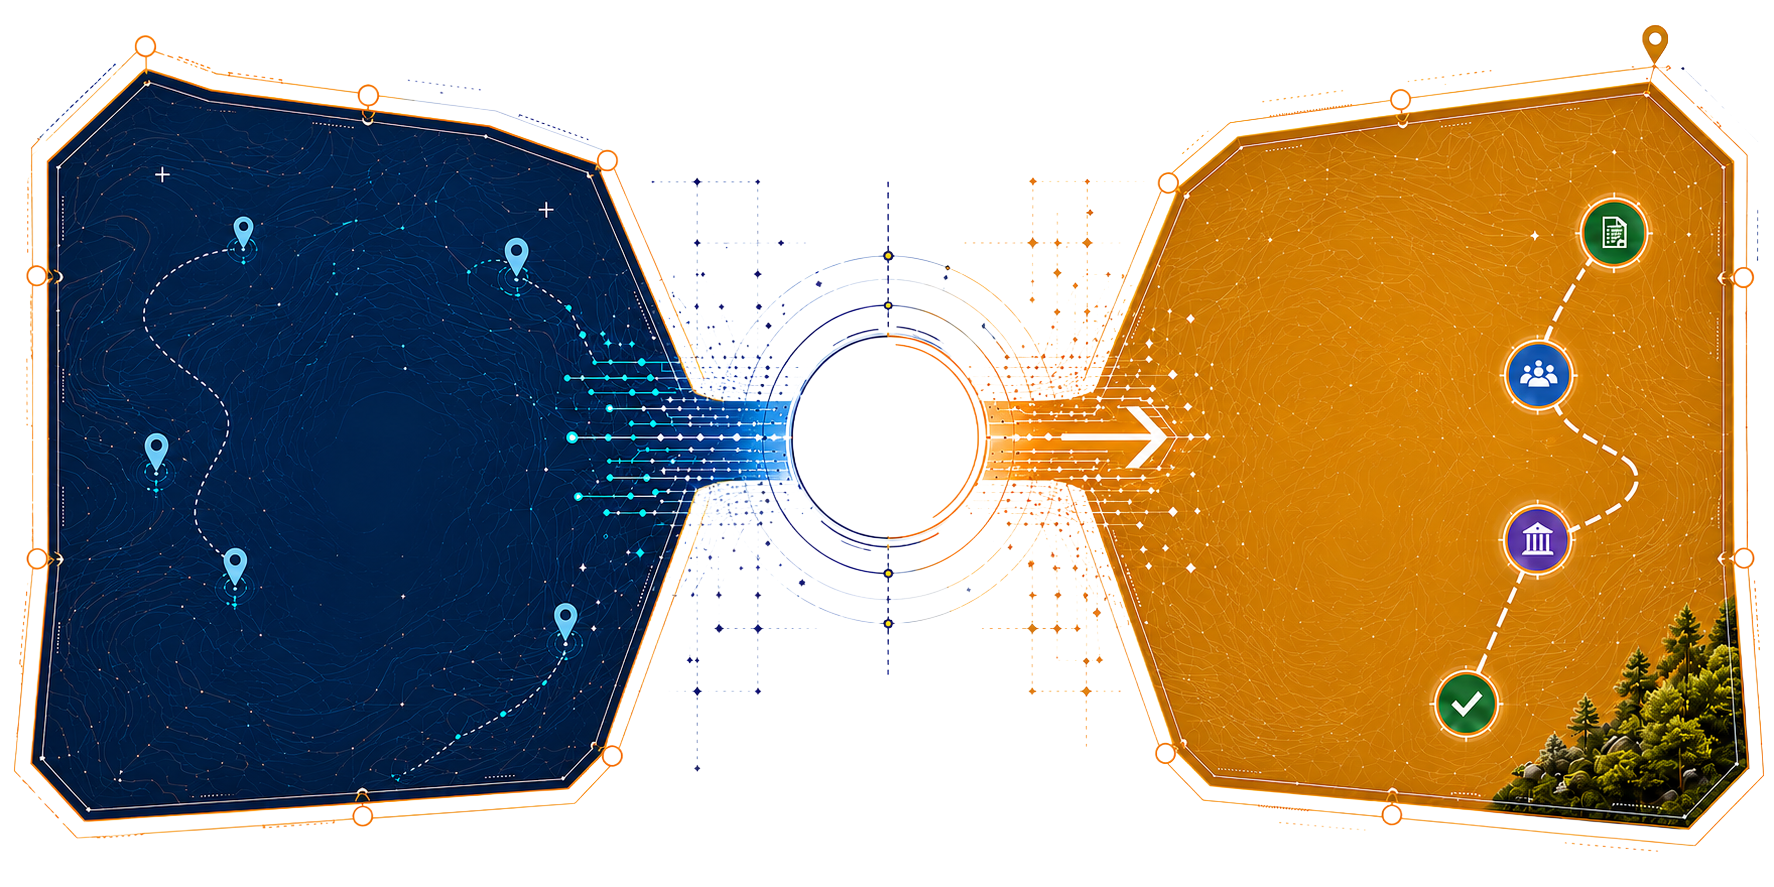
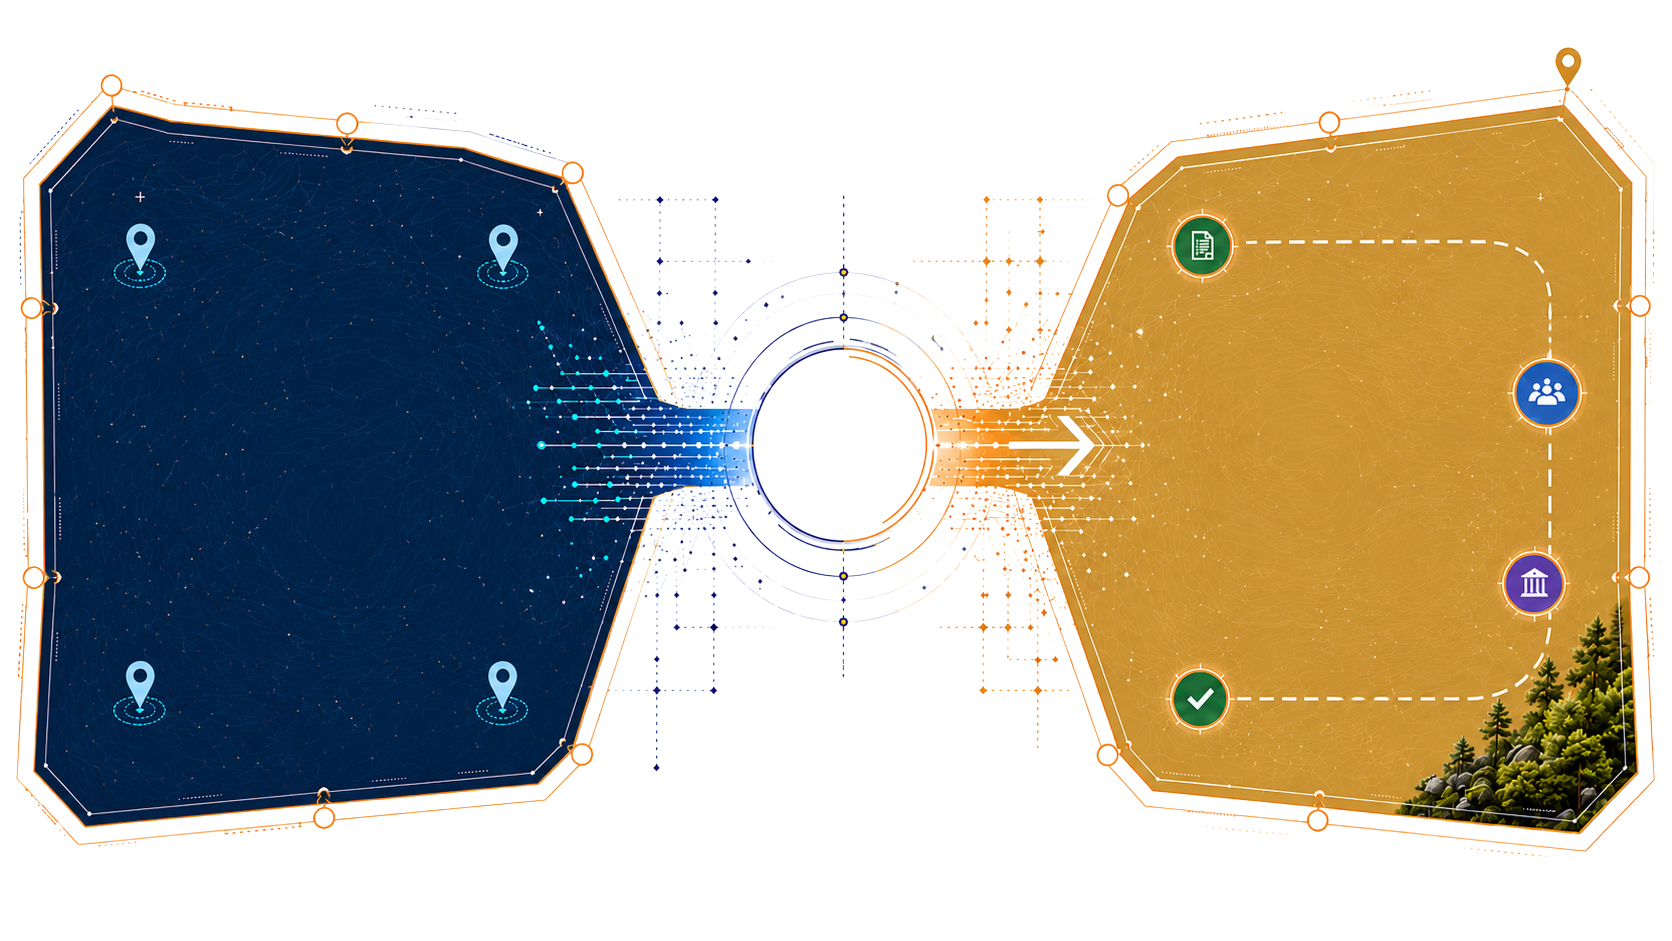
refactoring AboutUs page

diff --git a/src/app/about/page.tsx b/src/app/about/page.tsx
@@ -44,9 +44,9 @@ export default function AboutUsPage() {
   };
 
   const itemVariants = {
-    hidden: { 
-      opacity: 0, 
-      x: -30, 
+    hidden: {
+      opacity: 0,
+      x: -30,
       filter: 'blur(8px)',
       scale: 0.98,
     },
@@ -132,14 +132,14 @@ export default function AboutUsPage() {
       >
         <section className="relative w-full py-16 md:py-24 bg-transparent overflow-hidden">
           <div className="max-w-[95rem] mx-auto px-6 md:px-12 lg:px-16 w-full relative z-10">
-            
+
             {/* Introductory Text Structure matching design sheet */}
             <div className="text-center max-w-5xl mx-auto mb-16 space-y-8 relative z-10 px-4">
               <p className="text-brand-navy/70 text-lg md:text-xl font-normal leading-relaxed">
-                We know what you're dealing with. The right land is hard to find. Approvals take longer than they should. 
+                We know what you're dealing with. The right land is hard to find. Approvals take longer than they should.
                 And somewhere in the middle of all of it, you're left managing a process that was never designed to be easy.
               </p>
-              
+
               <div className="flex flex-col items-center gap-4">
                 <h3 className="text-2xl md:text-3xl font-poppins font-bold text-brand-navy max-w-4xl leading-tight">
                   We built Conservve Infra Solutions to change that experience for you.
@@ -148,9 +148,9 @@ export default function AboutUsPage() {
               </div>
 
               <p className="text-brand-navy/70 text-base md:text-lg font-normal leading-relaxed max-w-4xl mx-auto">
-                Based in Mumbai, we specialise in land acquisition and statutory approvals for businesses and developers 
-                who are done with delays and ready to move. We come in, take ownership of the complexity, and walk 
-                every stage alongside you with complete transparency, full compliance, and a commitment to 
+                Based in Mumbai, we specialise in land acquisition and statutory approvals for businesses and developers
+                who are done with delays and ready to move. We come in, take ownership of the complexity, and walk
+                every stage alongside you with complete transparency, full compliance, and a commitment to
                 getting you where you need to be, faster.
               </p>
 
@@ -158,7 +158,7 @@ export default function AboutUsPage() {
                 <h4 className="text-xl md:text-2xl font-poppins font-bold text-brand-navy">
                   Your project deserves that. And so do you.
                 </h4>
-                
+
                 {/* Gold blueprint symbol divider line */}
                 <div className="flex items-center gap-4 w-full justify-center opacity-70">
                   <div className="w-24 h-[1px] bg-brand-gold/60" />
@@ -174,18 +174,17 @@ export default function AboutUsPage() {
               </div>
             </div>
 
-            {/* ─── DESKTOP COMPOSITE INFOGRAPHIC: single mv_bg.png with text overlaid ─── */}
             {/*
-              mv_bg.png natural proportions ≈ 1540 × 740px → ratio 2.08:1
-              We render it at w-full within max-w-[1400px], height set by aspect ratio.
-              Text zones (as % of image width):
-                VISION  : left 2%  → left 38%  (left polygon body)
-                MISSION : left 62% → right 2%  (right polygon body)
-                Centre  : left 38% → left 62%  (graphical only, no text)
+              ─── DESKTOP INFOGRAPHIC: mv_bg.png (1540×740) full-unit image ───
+              Text zone analysis (% of image width):
+                Left polygon body:  x = 4%  → 30%   (28% wide)
+                Connector throat:   x = 30% → 63%   (graphical only)
+                Right polygon body: x = 63% → 90%   (27% wide)
+                Mission nodes:      x = 88% → 100%  (icons, no text)
             */}
             <motion.div
-              className="w-full max-w-[1400px] mx-auto hidden lg:block relative select-none z-20"
-              style={{ aspectRatio: '1540 / 740' }}
+              className="w-full max-w-[1660px] mx-auto hidden lg:block relative select-none z-20"
+              style={{ aspectRatio: '1540 / 840' }}
               initial={{ opacity: 0, y: 30 }}
               animate={{ opacity: 1, y: 0 }}
               transition={{ duration: 1.2, ease: "easeOut" }}
@@ -195,46 +194,73 @@ export default function AboutUsPage() {
                 <Image
                   src="/about_us/mv_bg.png"
                   fill
-                  sizes="(min-width: 1024px) 1400px, 100vw"
+                  sizes="(min-width: 1024px) 1660px, 100vw"
                   priority
                   className="object-fill"
                   alt="Vision Mission Infographic"
                 />
               </div>
 
-              {/* ── VISION: Eye icon — upper-centre of left polygon (yellow circle position) ── */}
-              <div className="absolute z-10" style={{ left: '22%', top: '24%', transform: 'translate(-50%, -50%)' }}>
-                <div className="w-14 h-14 rounded-full border border-brand-gold/70 flex items-center justify-center bg-brand-navy/50 backdrop-blur-sm shadow-inner relative">
-                  <div className="absolute inset-0.5 rounded-full border border-dashed border-brand-gold/35" />
-                  <Eye className="w-7 h-7 text-brand-gold" />
+              {/* ── VISION: icon + heading + text — left polygon body ── */}
+              <div
+                className="absolute z-10 flex flex-col items-start text-left"
+                style={{ left: '9%', top: '30%', width: '23%' }}
+              >
+                {/* Vision Icon — decorative eye centered above left-aligned title */}
+                <div className="relative mb-5 shrink-0 self-start">
+                  {/* Outer pulse ring */}
+                  <span className="absolute inset-0 rounded-full border-2 border-brand-gold/25 scale-[1.4] animate-pulse" />
+                  {/* Middle ring */}
+                  <span className="absolute inset-0 rounded-full border border-brand-gold/40 scale-[1.18]" />
+                  {/* Main icon circle */}
+                  <div className="relative w-14 h-14 rounded-full border-2 border-brand-gold bg-brand-navy/70 backdrop-blur-sm flex items-center justify-center shadow-[0_0_18px_rgba(191,160,82,0.35)]">
+                    {/* Inner decorative ring */}
+                    <span className="absolute inset-[3px] rounded-full border border-brand-gold/40" />
+                    <Eye className="w-7 h-7 text-brand-gold" strokeWidth={1.5} />
+                  </div>
                 </div>
-              </div>
 
-              {/* ── VISION: Heading + text — centre-right of left polygon body (yellow rectangle position) ── */}
-              <div className="absolute z-10 text-left" style={{ left: '5%', top: '42%', right: '60%' }}>
-                <h3 className="text-4xl xl:text-5xl font-poppins font-black tracking-widest text-white leading-none drop-shadow-lg">
+                {/* VISION heading — brand gold */}
+                <h3 className="text-3xl xl:text-4xl font-poppins font-black tracking-widest text-brand-gold leading-none drop-shadow-lg">
                   VISION
                 </h3>
-                <div className="w-14 h-[3px] bg-brand-gold mt-3 mb-4 rounded-full" />
-                <p className="text-white/85 text-[15px] font-normal leading-relaxed drop-shadow">
+                {/* Gold underline accent */}
+                <div className="w-10 h-[3px] bg-brand-gold mt-2 mb-4 rounded-full opacity-90" />
+                {/* Description paragraph */}
+                <p className="text-white/90 text-[15px] xl:text-[16px] font-normal leading-[1.65] drop-shadow">
                   To be a trusted leader in land acquisition and regulatory solutions, known for delivering certainty,
                   transparency, and long-term value across every project.
                 </p>
               </div>
 
-              {/* ── MISSION text overlay: right polygon zone (right 2% → 62%) ── */}
-              <div className="absolute inset-y-0 flex flex-col justify-center text-left z-10"
-                style={{ left: '63%', right: '3%' }}>
-                {/* Target icon */}
-                <div className="w-14 h-14 rounded-full border border-white/60 flex items-center justify-center mb-4 bg-white/10 backdrop-blur-sm shadow-inner relative shrink-0">
-                  <div className="absolute inset-0.5 rounded-full border border-dashed border-white/25" />
-                  <Target className="w-7 h-7 text-white" />
+              {/* ── MISSION: icon + heading + text — right polygon body ── */}
+              {/* Changed to items-end and text-right to prevent overlap with the center throat/arrow */}
+              <div
+                className="absolute z-10 flex flex-col items-end text-right"
+                style={{ right: '12%', top: '30%', width: '25%' }}
+              >
+                {/* Mission Icon — decorative target centered above right-aligned title */}
+                <div className="relative mb-5 shrink-0 self-end">
+                  {/* Outer pulse ring */}
+                  <span className="absolute inset-0 rounded-full border-2 border-brand-navy/30 scale-[1.4] animate-pulse" />
+                  {/* Middle ring */}
+                  <span className="absolute inset-0 rounded-full border border-brand-navy/50 scale-[1.18]" />
+                  {/* Main icon circle */}
+                  <div className="relative w-14 h-14 rounded-full border-2 border-brand-navy bg-white/25 backdrop-blur-sm flex items-center justify-center shadow-[0_0_18px_rgba(4,22,42,0.4)]">
+                    {/* Inner decorative ring */}
+                    <span className="absolute inset-[3px] rounded-full border border-brand-navy/50" />
+                    <Target className="w-7 h-7 text-brand-navy" strokeWidth={1.5} />
+                  </div>
                 </div>
-                <h3 className="text-4xl xl:text-5xl font-poppins font-black tracking-widest text-white leading-none drop-shadow-lg">
+
+                {/* MISSION heading — brand navy */}
+                <h3 className="text-3xl xl:text-4xl font-poppins font-black tracking-widest text-brand-navy leading-none drop-shadow-lg">
                   MISSION
                 </h3>
-                <div className="w-14 h-[3px] bg-white mt-3 mb-4 rounded-full" />
-                <p className="text-white/90 text-[15px] font-normal leading-relaxed max-w-[300px] drop-shadow">
+                {/* Navy underline accent */}
+                <div className="w-10 h-[3px] bg-brand-navy mt-2 mb-4 rounded-full opacity-90" />
+                {/* Description paragraph */}
+                <p className="text-white/90 text-[15px] xl:text-[16px] font-normal leading-[1.65] drop-shadow">
                   To simplify land acquisition and approval processes through deep expertise, strong institutional
                   networks, and efficient execution, empowering clients to move forward with confidence.
                 </p>
@@ -244,7 +270,7 @@ export default function AboutUsPage() {
 
             {/* ─── MOBILE & TABLET LAYOUT: RESPONSIVE STACKED BLOCKS ─── */}
             <div className="w-full flex flex-col items-center justify-center gap-8 mt-8 relative z-20 select-none lg:hidden">
-              
+
               {/* MOBILE: VISION PANEL */}
               <div className="relative w-full max-w-[500px] aspect-[520/400] flex-shrink-0 group">
                 {/* SVG Background Layer */}
@@ -312,14 +338,14 @@ export default function AboutUsPage() {
                     <div className="absolute inset-0.5 rounded-full border border-dashed border-brand-gold/30" />
                     <Eye className="w-7 h-7 text-brand-gold" />
                   </div>
-                  
+
                   {/* Vision Header */}
                   <h3 className="text-3xl font-poppins font-black tracking-widest text-white leading-none">VISION</h3>
                   <div className="w-12 h-[3px] bg-brand-gold mt-3 mb-4" />
-                  
+
                   {/* Description */}
                   <p className="text-white/80 text-sm sm:text-[14.5px] font-normal leading-relaxed max-w-[285px]">
-                    To be a trusted leader in land acquisition and regulatory solutions, known for delivering certainty, 
+                    To be a trusted leader in land acquisition and regulatory solutions, known for delivering certainty,
                     transparency, and long-term value across every project.
                   </p>
                 </div>
@@ -327,7 +353,7 @@ export default function AboutUsPage() {
 
               {/* MOBILE: TRANSMITTER NEXUS HUB */}
               <div className="relative w-28 h-28 rounded-full bg-white flex items-center justify-center shadow-xl border-2 border-brand-gold z-10 shrink-0">
-                <motion.div 
+                <motion.div
                   className="absolute inset-1 rounded-full border border-dashed border-brand-gold/60"
                   animate={{ rotate: 360 }}
                   transition={{ repeat: Infinity, duration: 20, ease: "linear" }}
@@ -422,14 +448,14 @@ export default function AboutUsPage() {
                     <div className="absolute inset-0.5 rounded-full border border-dashed border-white/20" />
                     <Target className="w-7 h-7 text-white" />
                   </div>
-                  
+
                   {/* Mission Header */}
                   <h3 className="text-3xl font-poppins font-black tracking-widest text-white leading-none">MISSION</h3>
                   <div className="w-12 h-[3px] bg-white mt-3 mb-4" />
-                  
+
                   {/* Description */}
                   <p className="text-white/90 text-sm sm:text-[14.5px] font-normal leading-relaxed max-w-[285px]">
-                    To simplify land acquisition and approval processes through deep expertise, strong institutional networks, 
+                    To simplify land acquisition and approval processes through deep expertise, strong institutional networks,
                     and efficient execution, empowering clients to move forward with confidence.
                   </p>
                 </div>
